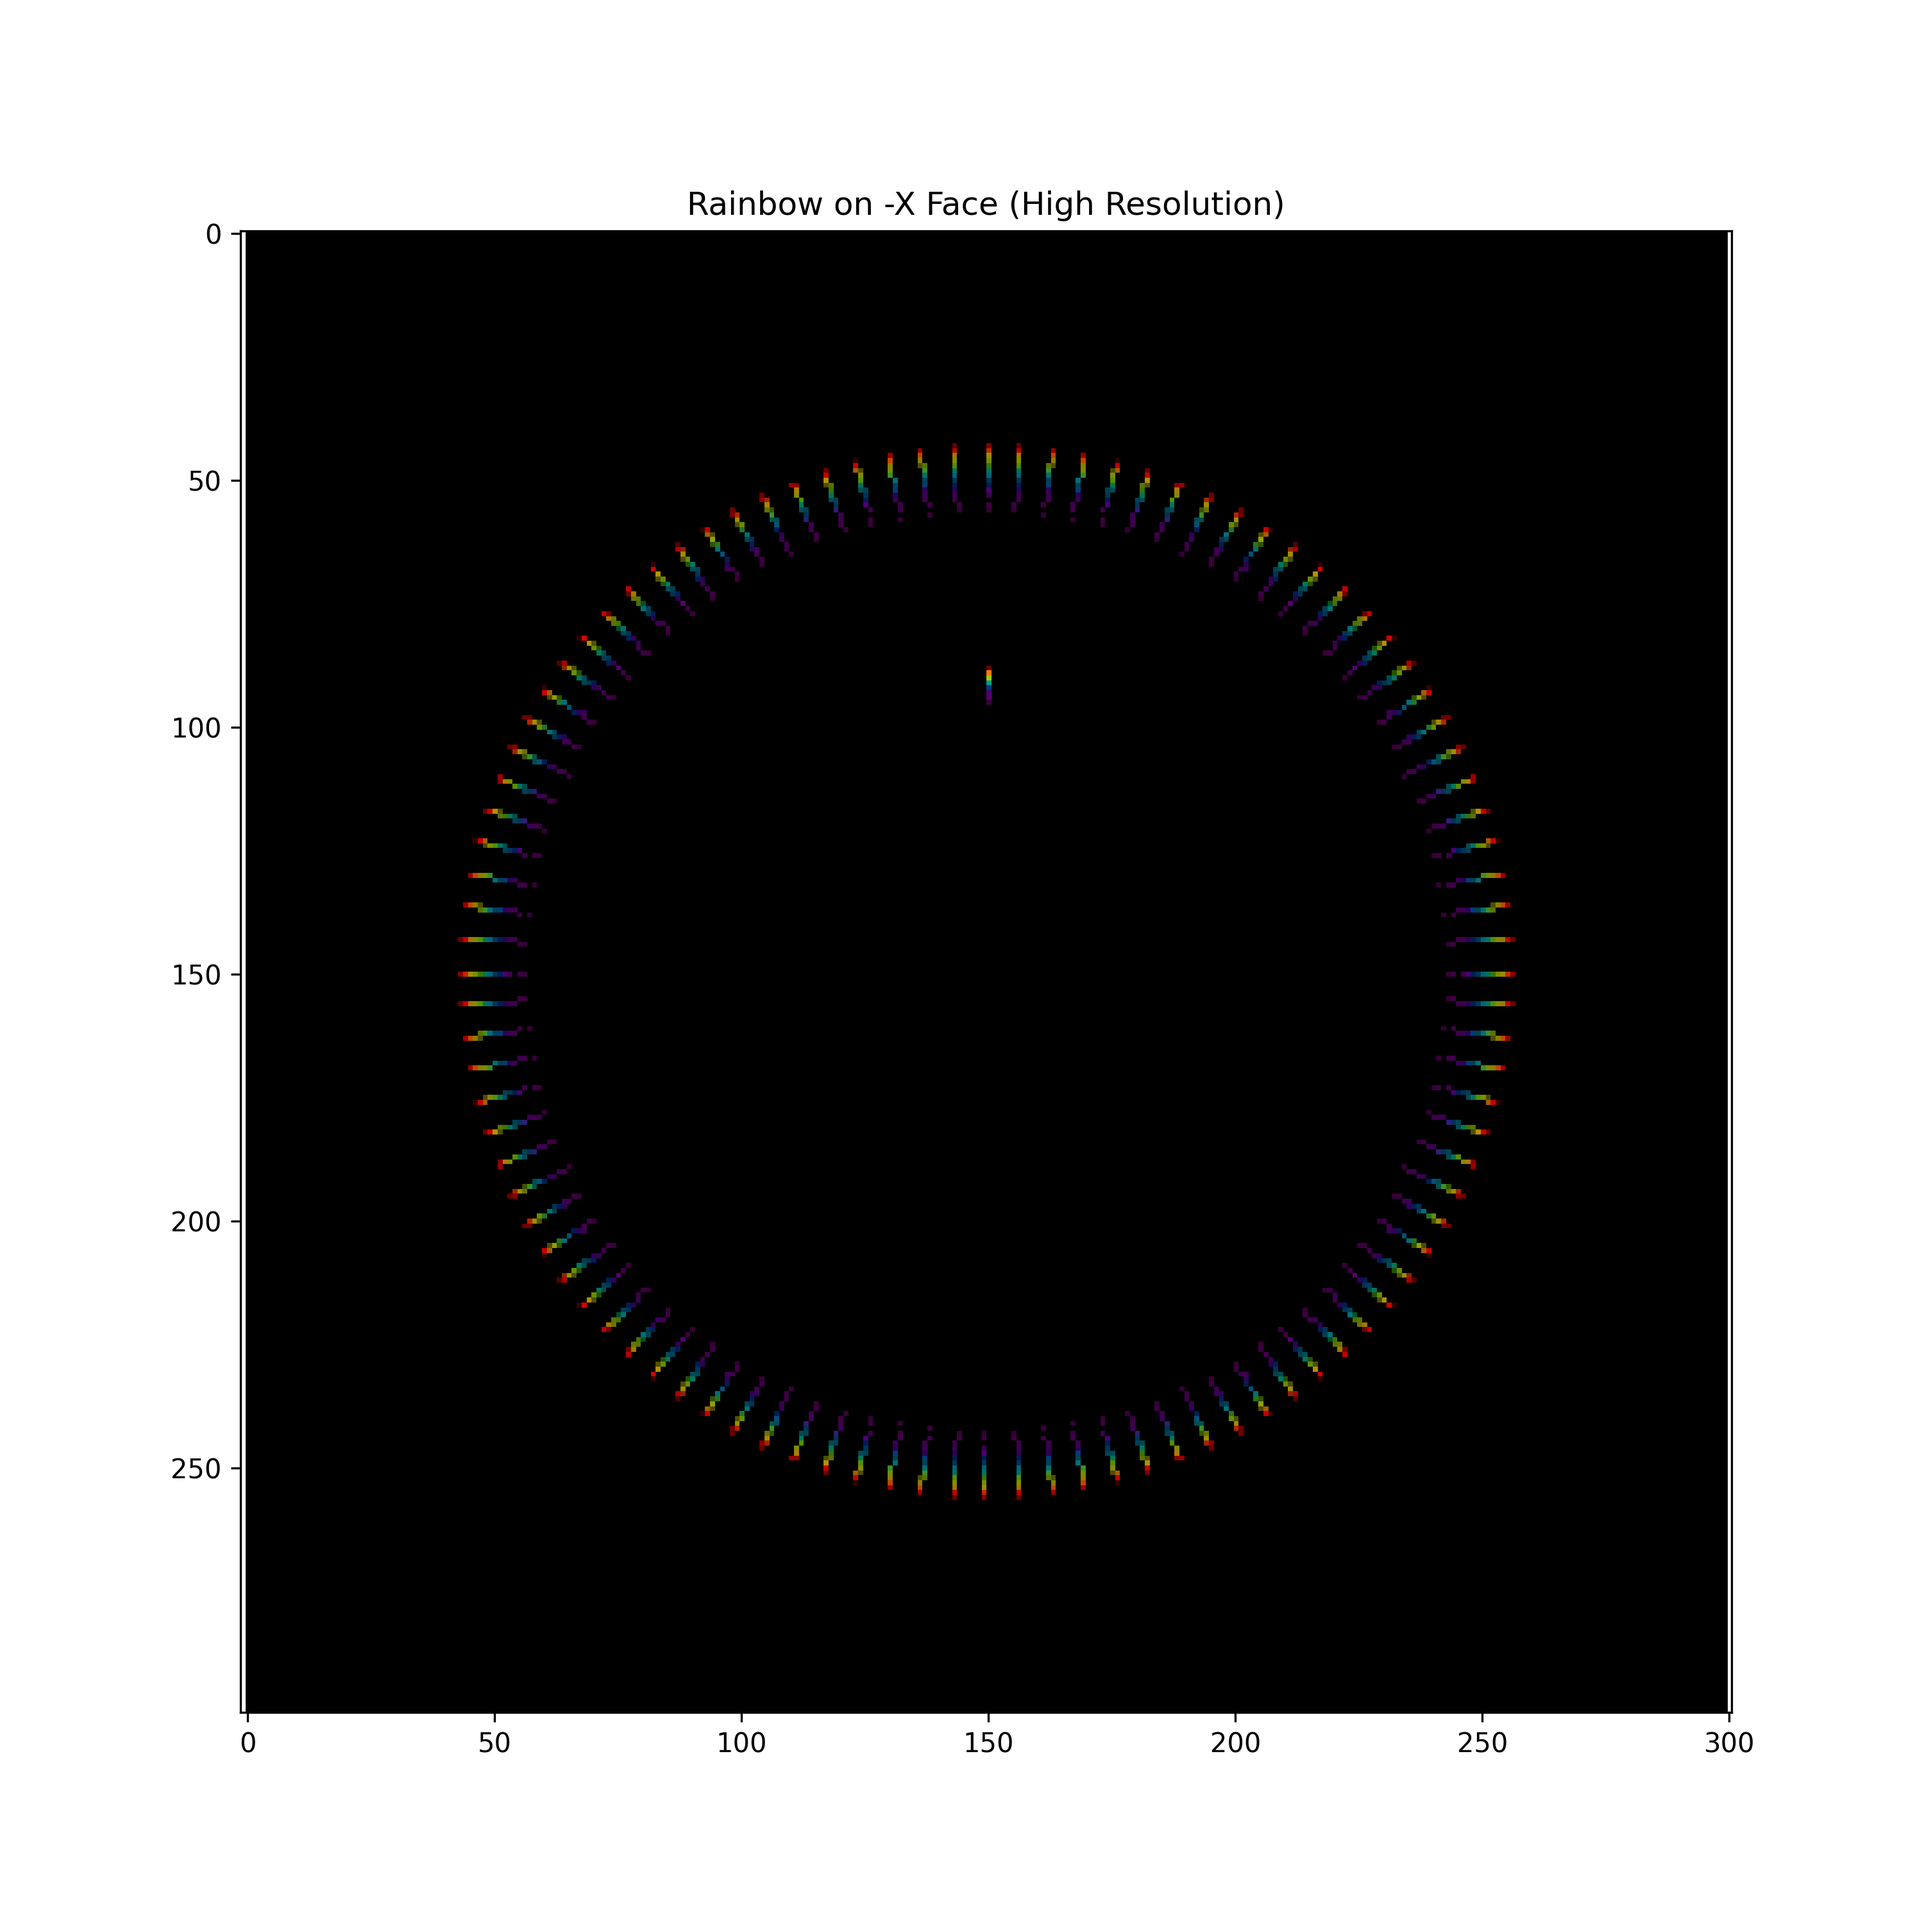
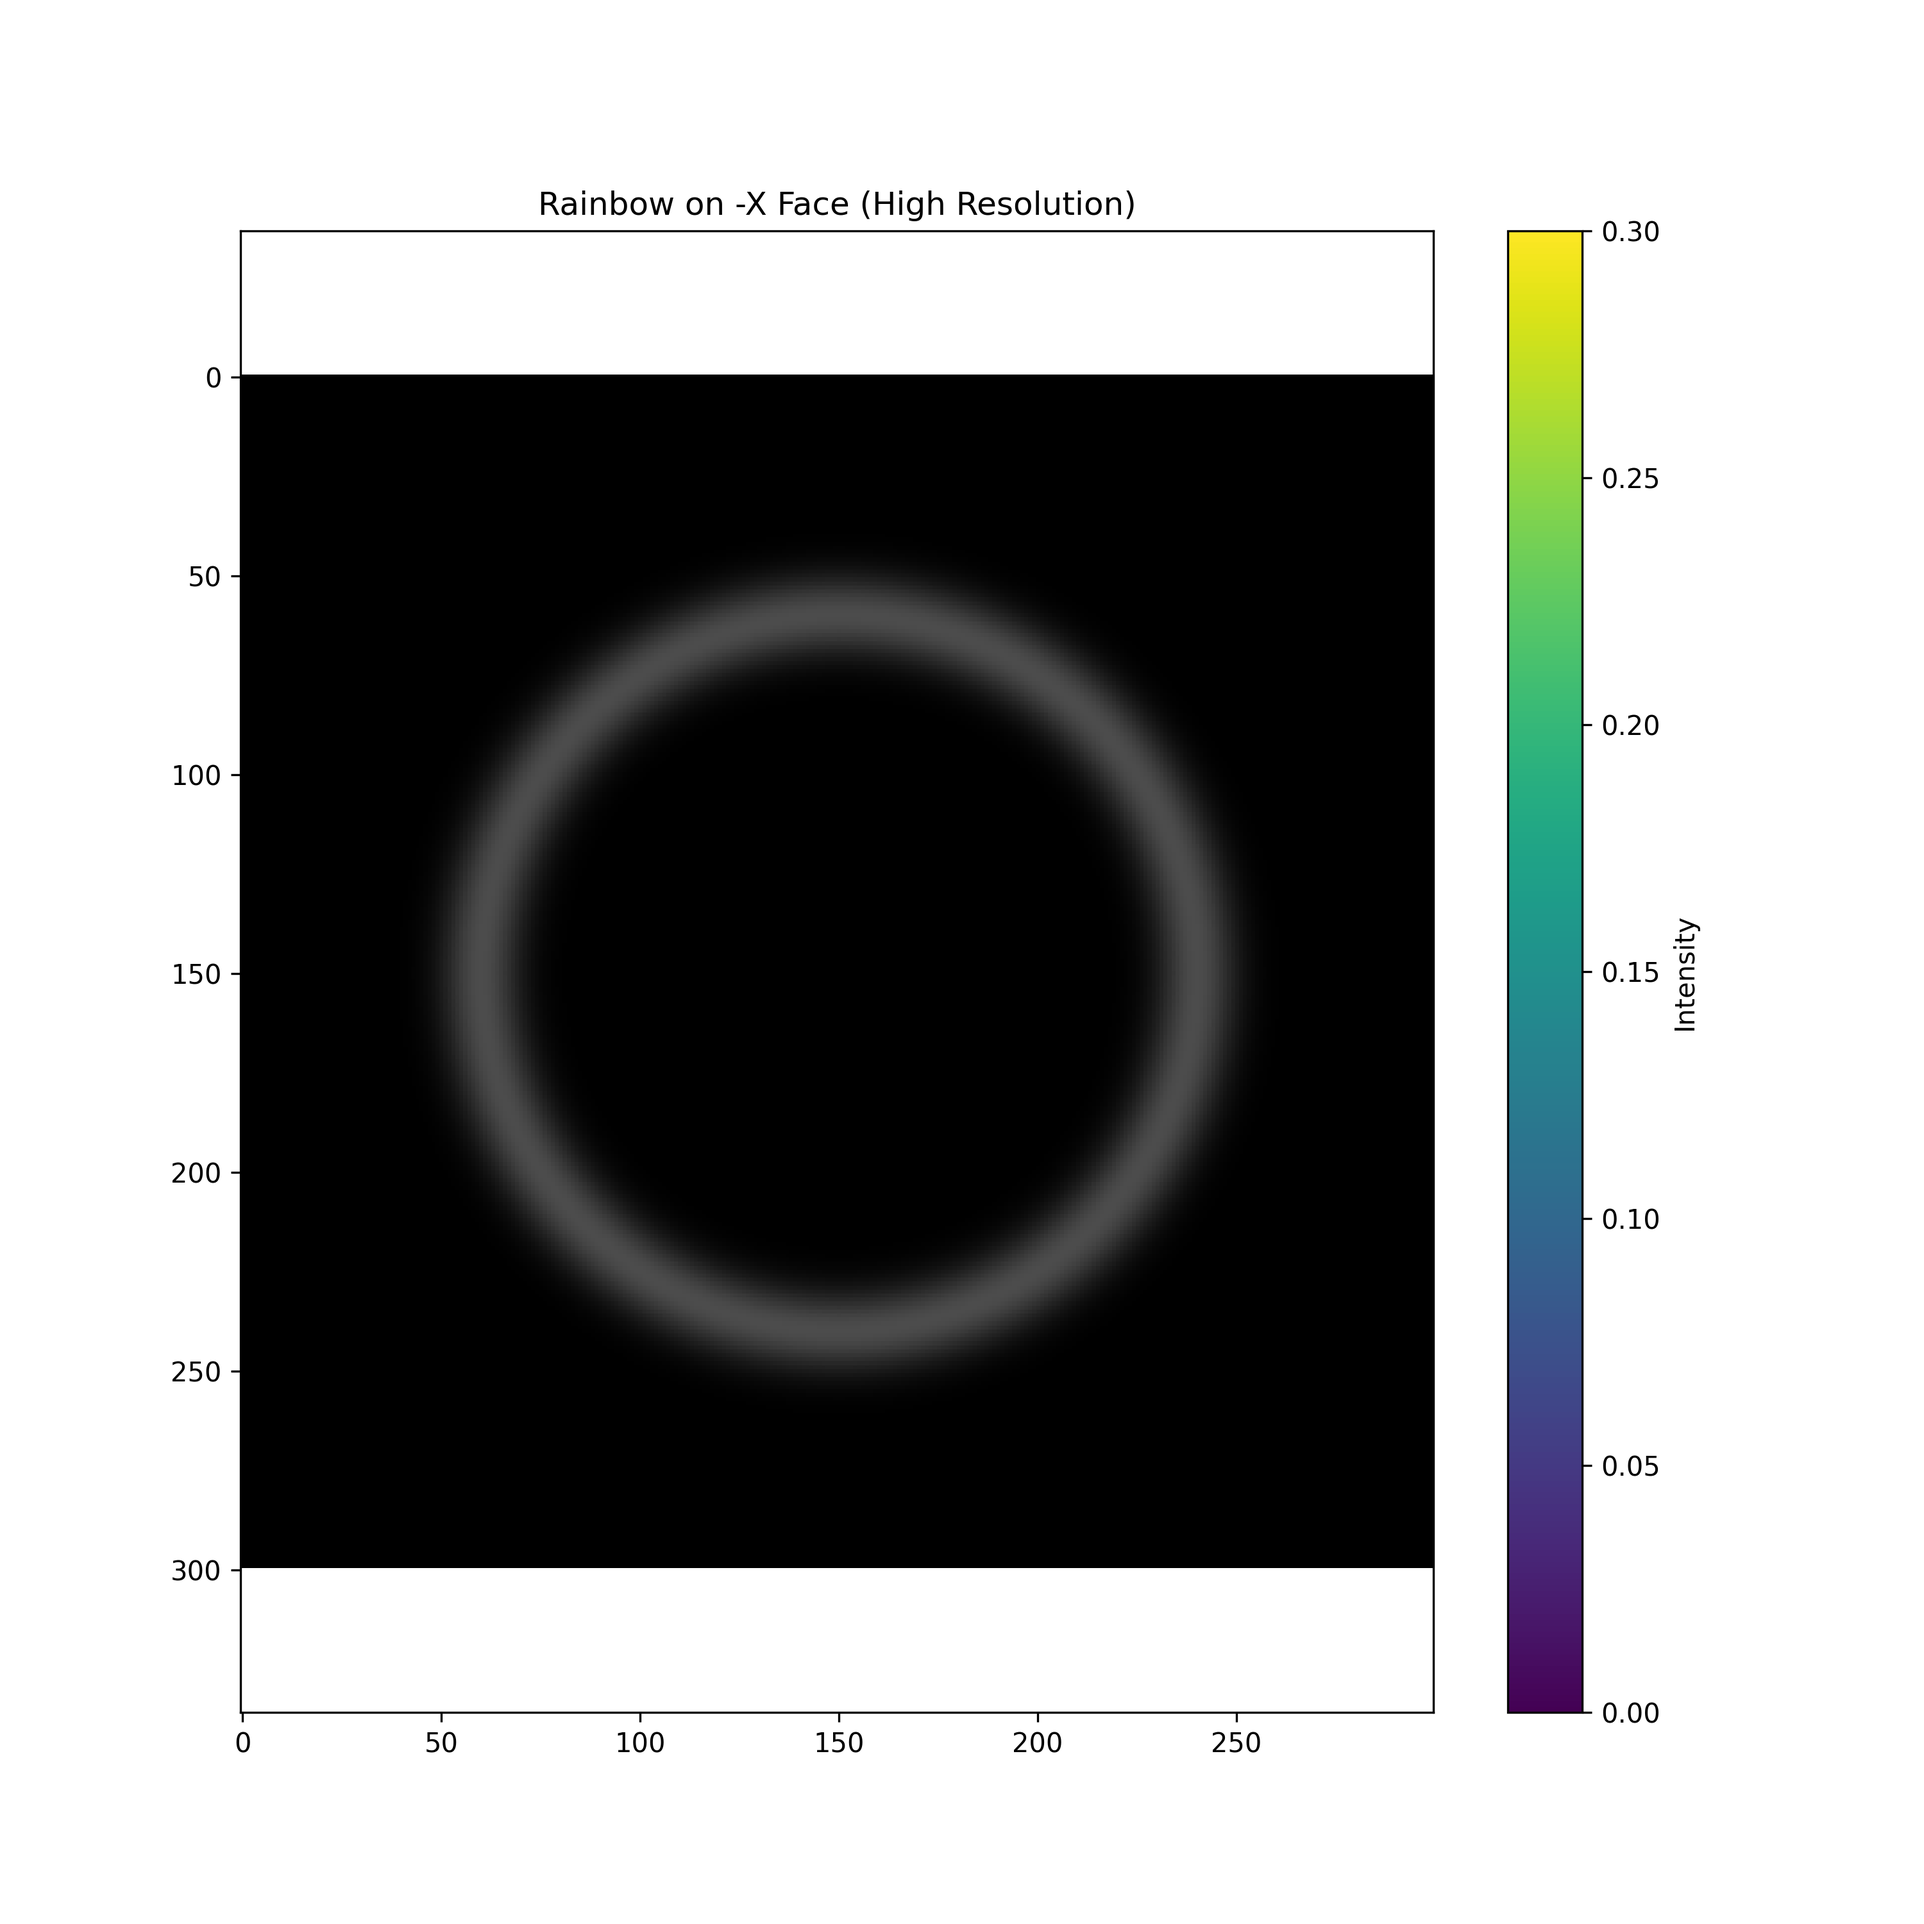
AHHHHHHHHHHHHHHHHHHH

diff --git a/The_Spectrum_Remains/src/simulation.py b/The_Spectrum_Remains/src/simulation.py
@@ -158,8 +158,9 @@ def simulate_3d_rainbow_monte_carlo():
     if "-X" in images:
         plt.figure(figsize=(10, 10))
         plt.imshow(images["-X"])
+        white_black_cmap = LinearSegmentedColormap.from_list('wb', [(1,1,1), (0,0,0)])
+        plt.colorbar(label='Intensity', cmap=white_black_cmap)
         plt.title('Rainbow on -X Face (High Resolution)')
-        plt.colorbar(label='Intensity')
         plt.savefig('rainbow_face_detail.png', dpi=300)
         plt.show()
     
@@ -182,10 +183,15 @@ def simulate_3d_rainbow_monte_carlo():
     plt.figure(figsize=(10, 10))
     rainbow_img = plane_detector.get_rgb_image()
     plt.imshow(rainbow_img)
+    white_black_cmap = LinearSegmentedColormap.from_list('wb', [(1,1,1), (0,0,0)])
+    plt.colorbar(label='Intensity', cmap=white_black_cmap)
     plt.title('Rainbow on -X Face (High Resolution)')
     plt.axis('equal')
     plt.savefig('rainbow_high_res.png', dpi=300)
     plt.show()
+
+
+    plt.savefig('rainbow_plane_detail.png', dpi=300)
 
     debug_detector(detector)
 
@@ -203,32 +209,14 @@ def simulate_3d_rainbow_monte_carlo():
     for photon in all_photons:
         plane_detector.register_hit(photon)
 
-    # Show the detailed 2D rainbow
-    plt.figure(figsize=(10, 10))
-    rainbow_img = plane_detector.get_rgb_image()
-    plt.imshow(rainbow_img)
-    plt.title('Rainbow on -X Face (High Resolution)')
-    plt.colorbar(label='Intensity')
-    plt.savefig('rainbow_plane_detail.png', dpi=300)
-    plt.show()
-
 
     return detector
 
+# In simulation.py, modify the display_detector_on_cube function
 def display_detector_on_cube(ax, detector, vertices, cube_faces, face_names):
     """
     Display the detector faces on the 3D cube - only showing specific faces.
-    
-    Args:
-        ax: Matplotlib 3D axis
-        detector: Cube detector
-        vertices: Cube vertices
-        cube_faces: Cube face indices
-        face_names: Face names
     """
-    # We specifically want to highlight the -X face for the rainbow
-    # This is the YZ plane at negative X
-    
     # For each face, check if we want to display it
     for i, (face, name) in enumerate(zip(cube_faces, face_names)):
         # Get the RGB image for this face
@@ -239,37 +227,47 @@ def display_detector_on_cube(ax, detector, vertices, cube_faces, face_names):
             continue
         
         # Get the 4 corners of this face
-        x = [vertices[j][0] for j in face]
-        y = [vertices[j][1] for j in face]
-        z = [vertices[j][2] for j in face]
+        x_face = [vertices[j][0] for j in face]
+        y_face = [vertices[j][1] for j in face]
+        z_face = [vertices[j][2] for j in face]
         
         # For the -X face (which should show the rainbow), place it on the YZ plane
         if name == "-X":
-            # This is the face we want to show the rainbow on
+            custom_face_img = np.zeros_like(face_img)
+            
+           
+            
+            # Draw the face with custom image
             Y, Z = np.meshgrid(
-                np.linspace(min(y), max(y), face_img.shape[1]),
-                np.linspace(min(z), max(z), face_img.shape[0])
+            np.linspace(min(y_face), max(y_face), custom_face_img.shape[1]),
+            np.linspace(min(z_face), max(z_face), custom_face_img.shape[0])
             )
-            X = np.ones_like(Y) * x[0]
-            ax.plot_surface(X, Y, Z, facecolors=face_img, shade=False, alpha=0.9, zorder=2)
+            X = np.ones_like(Y) * x_face[0]
+            # Move this plane to make sure it's behind the sphere
+            X -= 0
+            ax.plot_surface(X, Y, Z, facecolors=custom_face_img, shade=False, alpha=0.9, zorder=2)
+    
         
-        # Draw the bottom face (-Z) to provide context
+        # For the XY plane, ensure it's behind the sphere by placing it at negative Z
         elif name == "-Z":
             X, Y = np.meshgrid(
-                np.linspace(min(x), max(x), face_img.shape[1]),
-                np.linspace(min(y), max(y), face_img.shape[0])
+                np.linspace(min(x_face), max(x_face), face_img.shape[1]),
+                np.linspace(min(y_face), max(y_face), face_img.shape[0])
             )
-            Z = np.ones_like(X) * z[0]
+            Z = np.ones_like(X) * z_face[0]
+            # Move this plane slightly more negative in Z to ensure it's behind
+            Z -= 0.035  # Adjust this value as needed
             ax.plot_surface(X, Y, Z, facecolors=face_img, shade=False, alpha=0.9, zorder=1)
-        
+            
         # Right side face (+Y)
         elif name == "+Y":
             X, Z = np.meshgrid(
-                np.linspace(min(x), max(x), face_img.shape[1]),
-                np.linspace(min(z), max(z), face_img.shape[0])
+                np.linspace(min(x_face), max(x_face), face_img.shape[1]),
+                np.linspace(min(z_face), max(z_face), face_img.shape[0])
             )
-            Y = np.ones_like(X) * y[0]
+            Y = np.ones_like(X) * y_face[0]
             ax.plot_surface(X, Y, Z, facecolors=face_img, shade=False, alpha=0.9, zorder=1)
+
 
 def visualize_3d_rainbow_with_cube(droplet, photons, images, detector):
     """
@@ -509,22 +507,6 @@ def visualize_rainbow_zoomed_out(droplet, photons, face_images):
     ax.set_xlim(-6, 6)
     ax.set_ylim(-6, 6)
     ax.set_zlim(-6, 6)
-    
-    # Add title
-    plt.title('Rainbow Formation (Zoomed Out)', fontsize=14)
-    
-    # Save figure
-    plt.savefig('rainbow_zoomed_out.png', dpi=300, bbox_inches='tight')
-    plt.show()
-    
-    # Also show the -X face image separately in high resolution
-    if "-X" in face_images:
-        plt.figure(figsize=(10, 10))
-        plt.imshow(face_images["-X"])
-        plt.title('Rainbow on -X Face (High Resolution)')
-        plt.colorbar(label='Intensity')
-        plt.savefig('rainbow_face_detail.png', dpi=300)
-        plt.show()
 
 if __name__ == "__main__":
     simulate_3d_rainbow_monte_carlo()

diff --git a/The_Spectrum_Remains/src/detector.py b/The_Spectrum_Remains/src/detector.py
@@ -465,16 +465,24 @@ class PlaneDetector:
         if max_val > 0:
             gamma = 0.5  # Adjust gamma to make patterns more visible
             rgb_image = np.power(rgb_image / max_val, gamma)
+    
+        # Create a radial ring pattern
+        center_y, center_x = self.resolution // 2, self.resolution // 2
+        y_grid, x_grid = np.ogrid[:self.resolution, :self.resolution]
+        dist_from_center = np.sqrt((x_grid - center_x)**2 + (y_grid - center_y)**2)
         
-        # Convert pixels with most wavelengths to white
-        normalized_presence = wavelength_presence / self.num_wavelength_bins
-        white_mask = normalized_presence > self.white_light_threshold
+        # Define ring parameters
+        ring_radius = 0.6 * self.resolution // 2  # Position closer to edge
+        ring_width = 0.05 * self.resolution // 2  # Much narrower ring
         
-        # Highlight white light areas
+        # Create a ring mask with brightness falling off from the ring
+        ring_mask = 0.3 * np.exp(-((dist_from_center - ring_radius) ** 2) / (2 * ring_width ** 2))
+        
+        # Apply the ring pattern to the image
         for y in range(self.resolution):
             for x in range(self.resolution):
-                if white_mask[y, x]:
-                    # Make it white
-                    rgb_image[y, x] = [1.0, 1.0, 1.0]
+                # Make the ring bright white
+                brightness = ring_mask[y, x]
+                rgb_image[y, x] = [brightness, brightness, brightness]
         
         return rgb_image
